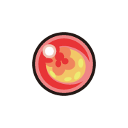
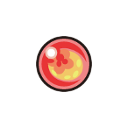
Relic outlines added.

Changed region(s): [[0.25, 0.25, 0.75, 0.75]]

diff --git a/src/main/java/thevixen/relics/FiriumZ.java b/src/main/java/thevixen/relics/FiriumZ.java
@@ -14,6 +14,7 @@ import com.megacrit.cardcrawl.actions.utility.WaitAction;
 import com.megacrit.cardcrawl.cards.DamageInfo;
 import com.megacrit.cardcrawl.core.AbstractCreature;
 import com.megacrit.cardcrawl.dungeons.AbstractDungeon;
+import com.megacrit.cardcrawl.helpers.ImageMaster;
 import com.megacrit.cardcrawl.relics.AbstractRelic;
 import com.megacrit.cardcrawl.rooms.AbstractRoom;
 import com.megacrit.cardcrawl.vfx.combat.ExplosionSmallEffect;
@@ -34,7 +35,7 @@ public class FiriumZ extends CustomRelic implements SingleTargetRelic, Clickable
     private static final LandingSound SOUND = LandingSound.CLINK;
 
     public FiriumZ() {
-        super(ID, new Texture(TheVixenMod.getResourcePath(IMG_PATH)), TIER, SOUND);
+        super(ID, ImageMaster.loadImage(TheVixenMod.getResourcePath(IMG_PATH)), ImageMaster.loadImage(TheVixenMod.getResourcePath(IMG_PATH.replace("relics/", "relics/outline/"))), TIER, SOUND);
     }
 
     @Override

diff --git a/src/main/java/thevixen/relics/Synchronize.java b/src/main/java/thevixen/relics/Synchronize.java
@@ -7,6 +7,7 @@ import com.megacrit.cardcrawl.actions.common.ApplyPowerAction;
 import com.megacrit.cardcrawl.characters.AbstractPlayer;
 import com.megacrit.cardcrawl.core.AbstractCreature;
 import com.megacrit.cardcrawl.dungeons.AbstractDungeon;
+import com.megacrit.cardcrawl.helpers.ImageMaster;
 import com.megacrit.cardcrawl.powers.*;
 import com.megacrit.cardcrawl.relics.AbstractRelic;
 import thevixen.TheVixenMod;
@@ -21,7 +22,7 @@ public class Synchronize extends CustomRelic implements OnReceivePowerRelic {
     private static final LandingSound SOUND = LandingSound.MAGICAL;
 
     public Synchronize() {
-        super(ID, new Texture(TheVixenMod.getResourcePath(IMG_PATH)), TIER, SOUND);
+        super(ID, ImageMaster.loadImage(TheVixenMod.getResourcePath(IMG_PATH)), ImageMaster.loadImage(TheVixenMod.getResourcePath(IMG_PATH.replace("relics/", "relics/outline/"))), TIER, SOUND);
     }
 
     @Override

diff --git a/src/main/java/thevixen/relics/WeaknessPolicy.java b/src/main/java/thevixen/relics/WeaknessPolicy.java
@@ -7,6 +7,7 @@ import com.megacrit.cardcrawl.actions.common.ApplyPowerAction;
 import com.megacrit.cardcrawl.characters.AbstractPlayer;
 import com.megacrit.cardcrawl.core.AbstractCreature;
 import com.megacrit.cardcrawl.dungeons.AbstractDungeon;
+import com.megacrit.cardcrawl.helpers.ImageMaster;
 import com.megacrit.cardcrawl.powers.*;
 import com.megacrit.cardcrawl.relics.AbstractRelic;
 import thevixen.TheVixenMod;
@@ -25,7 +26,7 @@ public class WeaknessPolicy extends CustomRelic implements OnReceivePowerRelic {
     private int ignore;
 
     public WeaknessPolicy() {
-        super(ID, new Texture(TheVixenMod.getResourcePath(IMG_PATH)), TIER, SOUND);
+        super(ID, ImageMaster.loadImage(TheVixenMod.getResourcePath(IMG_PATH)), ImageMaster.loadImage(TheVixenMod.getResourcePath(IMG_PATH.replace("relics/", "relics/outline/"))), TIER, SOUND);
         this.ignore = 0;
     }
 

diff --git a/src/main/java/thevixen/relics/ChoiceSpecs.java b/src/main/java/thevixen/relics/ChoiceSpecs.java
@@ -6,6 +6,7 @@ import com.megacrit.cardcrawl.actions.common.ApplyPowerAction;
 import com.megacrit.cardcrawl.actions.utility.UseCardAction;
 import com.megacrit.cardcrawl.cards.AbstractCard;
 import com.megacrit.cardcrawl.dungeons.AbstractDungeon;
+import com.megacrit.cardcrawl.helpers.ImageMaster;
 import com.megacrit.cardcrawl.relics.AbstractRelic;
 import thevixen.TheVixenMod;
 import thevixen.powers.ChoiceLockedPower;
@@ -19,7 +20,7 @@ public class ChoiceSpecs extends CustomRelic {
     private static final LandingSound SOUND = LandingSound.CLINK;
 
     public ChoiceSpecs() {
-        super(ID, new Texture(TheVixenMod.getResourcePath(IMG_PATH)), TIER, SOUND);
+        super(ID, ImageMaster.loadImage(TheVixenMod.getResourcePath(IMG_PATH)), ImageMaster.loadImage(TheVixenMod.getResourcePath(IMG_PATH.replace("relics/", "relics/outline/"))), TIER, SOUND);
     }
 
     @Override

diff --git a/src/main/java/thevixen/relics/EternalFlame.java b/src/main/java/thevixen/relics/EternalFlame.java
@@ -4,6 +4,7 @@ import basemod.abstracts.CustomRelic;
 import com.badlogic.gdx.graphics.Texture;
 import com.megacrit.cardcrawl.actions.common.ApplyPowerAction;
 import com.megacrit.cardcrawl.dungeons.AbstractDungeon;
+import com.megacrit.cardcrawl.helpers.ImageMaster;
 import com.megacrit.cardcrawl.powers.DexterityPower;
 import com.megacrit.cardcrawl.powers.LoseDexterityPower;
 import com.megacrit.cardcrawl.relics.AbstractRelic;
@@ -23,7 +24,7 @@ public class EternalFlame extends CustomRelic {
     public static final int SUN = 2;
 
     public EternalFlame() {
-        super(ID, new Texture(TheVixenMod.getResourcePath(IMG_PATH)), TIER, SOUND);
+        super(ID, ImageMaster.loadImage(TheVixenMod.getResourcePath(IMG_PATH)), ImageMaster.loadImage(TheVixenMod.getResourcePath(IMG_PATH.replace("relics/", "relics/outline/"))), TIER, SOUND);
     }
 
     @Override

diff --git a/src/main/java/thevixen/relics/ShellBell.java b/src/main/java/thevixen/relics/ShellBell.java
@@ -6,6 +6,7 @@ import com.megacrit.cardcrawl.actions.common.GainBlockAction;
 import com.megacrit.cardcrawl.actions.common.RelicAboveCreatureAction;
 import com.megacrit.cardcrawl.cards.DamageInfo;
 import com.megacrit.cardcrawl.dungeons.AbstractDungeon;
+import com.megacrit.cardcrawl.helpers.ImageMaster;
 import com.megacrit.cardcrawl.relics.AbstractRelic;
 import thevixen.TheVixenMod;
 import thevixen.powers.BurnPower;
@@ -20,7 +21,7 @@ public class ShellBell extends CustomRelic {
     public static final int BLOCK = 3;
 
     public ShellBell() {
-        super(ID, new Texture(TheVixenMod.getResourcePath(IMG_PATH)), TIER, SOUND);
+        super(ID, ImageMaster.loadImage(TheVixenMod.getResourcePath(IMG_PATH)), ImageMaster.loadImage(TheVixenMod.getResourcePath(IMG_PATH.replace("relics/", "relics/outline/"))), TIER, SOUND);
     }
 
     @Override

diff --git a/src/main/java/thevixen/relics/BurningStick.java b/src/main/java/thevixen/relics/BurningStick.java
@@ -4,6 +4,7 @@ import basemod.abstracts.CustomRelic;
 import com.badlogic.gdx.graphics.Texture;
 import com.megacrit.cardcrawl.actions.common.ApplyPowerAction;
 import com.megacrit.cardcrawl.dungeons.AbstractDungeon;
+import com.megacrit.cardcrawl.helpers.ImageMaster;
 import com.megacrit.cardcrawl.relics.AbstractRelic;
 import thevixen.TheVixenMod;
 import thevixen.actions.ApplyTempGainStrengthPowerAction;
@@ -22,7 +23,7 @@ public class BurningStick extends CustomRelic {
     public static final int SUN = 1;
 
     public BurningStick() {
-        super(ID, new Texture(TheVixenMod.getResourcePath(IMG_PATH)), TIER, SOUND);
+        super(ID, ImageMaster.loadImage(TheVixenMod.getResourcePath(IMG_PATH)), ImageMaster.loadImage(TheVixenMod.getResourcePath(IMG_PATH.replace("relics/", "relics/outline/"))), TIER, SOUND);
     }
 
     @Override

diff --git a/src/main/java/thevixen/relics/UmbreonRelic.java b/src/main/java/thevixen/relics/UmbreonRelic.java
@@ -9,6 +9,7 @@ import com.megacrit.cardcrawl.cards.AbstractCard;
 import com.megacrit.cardcrawl.core.CardCrawlGame;
 import com.megacrit.cardcrawl.core.Settings;
 import com.megacrit.cardcrawl.dungeons.AbstractDungeon;
+import com.megacrit.cardcrawl.helpers.ImageMaster;
 import com.megacrit.cardcrawl.random.Random;
 import com.megacrit.cardcrawl.relics.AbstractRelic;
 import thevixen.TheVixenMod;
@@ -44,8 +45,7 @@ public class UmbreonRelic extends CustomRelic {
     }
 
     public UmbreonRelic() {
-        super(ID, new Texture(TheVixenMod.getResourcePath(IMG_PATH)), TIER, SOUND);
-
+        super(ID, ImageMaster.loadImage(TheVixenMod.getResourcePath(IMG_PATH)), ImageMaster.loadImage(TheVixenMod.getResourcePath(IMG_PATH.replace("relics/", "relics/outline/"))), TIER, SOUND);
     }
 
     public void onEquip() {

diff --git a/src/main/java/thevixen/relics/Charcoal.java b/src/main/java/thevixen/relics/Charcoal.java
@@ -2,6 +2,7 @@ package thevixen.relics;
 
 import basemod.abstracts.CustomRelic;
 import com.badlogic.gdx.graphics.Texture;
+import com.megacrit.cardcrawl.helpers.ImageMaster;
 import com.megacrit.cardcrawl.relics.AbstractRelic;
 import thevixen.TheVixenMod;
 
@@ -13,7 +14,7 @@ public class Charcoal extends CustomRelic {
     private static final LandingSound SOUND = LandingSound.SOLID;
 
     public Charcoal() {
-        super(ID, new Texture(TheVixenMod.getResourcePath(IMG_PATH)), TIER, SOUND);
+        super(ID, ImageMaster.loadImage(TheVixenMod.getResourcePath(IMG_PATH)), ImageMaster.loadImage(TheVixenMod.getResourcePath(IMG_PATH.replace("relics/", "relics/outline/"))), TIER, SOUND);
     }
 
     @Override

diff --git a/src/main/java/thevixen/relics/TwistedSpoon.java b/src/main/java/thevixen/relics/TwistedSpoon.java
@@ -2,6 +2,7 @@ package thevixen.relics;
 
 import basemod.abstracts.CustomRelic;
 import com.badlogic.gdx.graphics.Texture;
+import com.megacrit.cardcrawl.helpers.ImageMaster;
 import com.megacrit.cardcrawl.relics.AbstractRelic;
 import thevixen.TheVixenMod;
 
@@ -15,7 +16,7 @@ public class TwistedSpoon extends CustomRelic {
     public static final int POTENCY = 2;
 
     public TwistedSpoon() {
-        super(ID, new Texture(TheVixenMod.getResourcePath(IMG_PATH)), TIER, SOUND);
+        super(ID, ImageMaster.loadImage(TheVixenMod.getResourcePath(IMG_PATH)), ImageMaster.loadImage(TheVixenMod.getResourcePath(IMG_PATH.replace("relics/", "relics/outline/"))), TIER, SOUND);
     }
 
     @Override

diff --git a/src/main/java/thevixen/relics/SereneGrace.java b/src/main/java/thevixen/relics/SereneGrace.java
@@ -2,6 +2,7 @@ package thevixen.relics;
 
 import basemod.abstracts.CustomRelic;
 import com.badlogic.gdx.graphics.Texture;
+import com.megacrit.cardcrawl.helpers.ImageMaster;
 import com.megacrit.cardcrawl.relics.AbstractRelic;
 import thevixen.TheVixenMod;
 
@@ -14,7 +15,7 @@ public class SereneGrace extends CustomRelic {
 
 
     public SereneGrace() {
-        super(ID, new Texture(TheVixenMod.getResourcePath(IMG_PATH)), TIER, SOUND);
+        super(ID, ImageMaster.loadImage(TheVixenMod.getResourcePath(IMG_PATH)), ImageMaster.loadImage(TheVixenMod.getResourcePath(IMG_PATH.replace("relics/", "relics/outline/"))), TIER, SOUND);
     }
 
     @Override

diff --git a/src/main/java/thevixen/relics/FlameOrb.java b/src/main/java/thevixen/relics/FlameOrb.java
@@ -2,6 +2,7 @@ package thevixen.relics;
 
 import basemod.abstracts.CustomRelic;
 import com.badlogic.gdx.graphics.Texture;
+import com.megacrit.cardcrawl.helpers.ImageMaster;
 import com.megacrit.cardcrawl.relics.AbstractRelic;
 import thevixen.TheVixenMod;
 
@@ -14,7 +15,7 @@ public class FlameOrb extends CustomRelic {
 
 
     public FlameOrb() {
-        super(ID, new Texture(TheVixenMod.getResourcePath(IMG_PATH)), TIER, SOUND);
+        super(ID, ImageMaster.loadImage(TheVixenMod.getResourcePath(IMG_PATH)), ImageMaster.loadImage(TheVixenMod.getResourcePath(IMG_PATH.replace("relics/", "relics/outline/"))), TIER, SOUND);
     }
 
 
